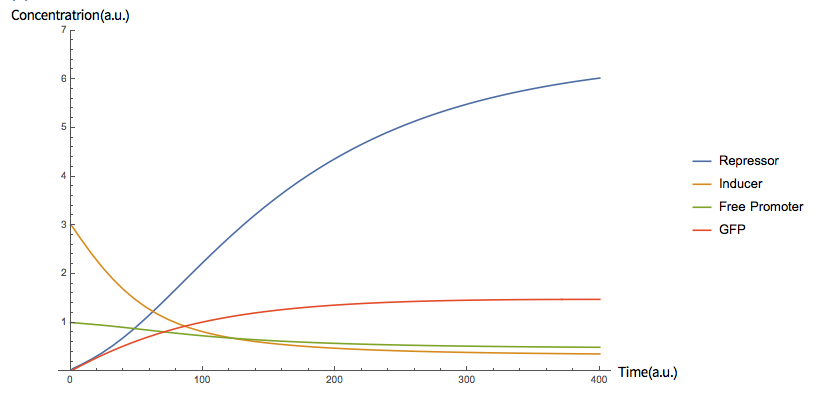
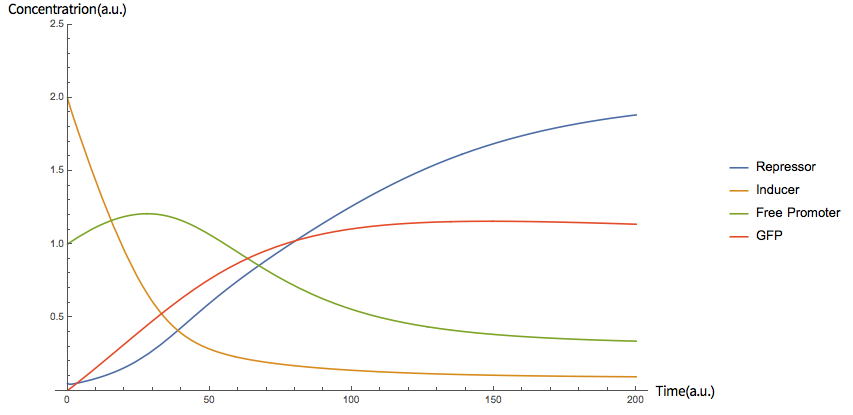
Estoy a punto de bajar tus push

diff --git a/model.html b/model.html
@@ -252,32 +252,24 @@
     <div id="project-content" class="main-content container">
       <div class="row" style="margin-top: 48px;">
         <!-------------------------------------------------------------->
-        <div class="container" id="parrafo-alan">
-          <div class="row">
-            <div class="col-lg-6">
-              <div id="antibiotic-button" class="index-button">
-                <span>
-                  Antibiotic Resistance in Cystic Fibrosis
-                </span>
-              </div>
-              <div class="div-info" id="display:none">
-                <p>
-                  HOLA HOLA HOLA HOLA
-                </p>
-              </div>
-            </div>
-            <div class="col-lg-6">
-              <div id="cascade-button" class="index-button">
-                <span>
-                  Cascade Amplifier Signal for Drug Discovery
-                </span>
-              </div>
-              <div id="div-info">
-                <p>
-                  HOLA HOLA HOLA
-                </p>
-              </div>
-            </div>
+        <div class="container d-flex justify-content-center">
+          <div id="antibiotic-div" class="col-lg-3 index-button">
+            <span id="front-card1"> </span>
+            <p id="back-card1" style="display: none;">
+              Antibiotic Resistance in Cystic Fibrosis αδ
+            </p>
+          </div>
+          <div id="cascade-div" class="col-lg-3 index-button">
+            <span id="front-card2"> </span>
+            <p id="back-card2" style="display: none;">
+              Cascade Amplifier Signal for Discovery
+            </p>
+          </div>
+          <div id="mucolitic-div" class="col-lg-3 index-button">
+            <span id="front-card3"> </span>
+            <p id="back-card3" style="display: none;">
+              Mucolytic Production
+            </p>
           </div>
         </div>
         <script>
@@ -304,23 +296,79 @@
 
           <article class="container">
             <!-----    SUBTÍTULO DE LA SECCIÓN <h3>    ----->
-            <h3 class="row col-md-12 subsection-title">Modelo 1</h3>
+            <h3 class="row col-md-12 subsection-title">
+              Cascade Amplifier Signal for Discovery
+            </h3>
 
             <!-----    Cada <div> es una fila/párrafo    ----->
 
             <div class="row mt-4">
-              <p class="col-md-9 description-text">
-                Lorem ipsum dolor sit amet, consectetur adipiscing elit, sed do
-                eiusmod tempor ncididunt ut labore et dolore magna aliqua. Id
-                neque aliquam vestibulum morbi blandit cursus risus at ultrices.
-                Parturient montes nascetur ridiculus mus mauris vitae.
+              <p class="col-md-12 description-text">
+                Modelling Biological systems has become an area of interest for
+                multidisciplinary areas of science, medicine and engineering.
+                Moreover, designing synthetic biological circuits using genetic
+                elements has become a research field for developing novel
+                biochemical sensors, diagnostics and inducible production of
+                molecules of interest. \\ Our project consist of a series of
+                engineered multi-layered transcriptional amplifiers that
+                sequentially increases the output expression level of a GFP
+                reporter protein on the presence of an inducer molecule. \\ On
+                the following sections, we will develop the mathematical model
+                of the signal amplification as follows: first we will derive the
+                mathematical equations for an already characterizad heavy metal
+                biosensor consisting of a consititutive promoter expessing a
+                represor protein inhibiting the later expression of a reporter
+                gene. Then we will consider the effect of adding a bilayer
+                orthogonal cascade and the signal amplification. After that we
+                will extrapolate this same model to our antibiotic biosensor.
               </p>
-              <img
-                src="https://2019.igem.org/wiki/images/b/b3/Hp_cycle.svg"
-                class="col-md-3 description-image"
-              />
+              <img src="img/GFP.png" class="col-md-9 description-image" />
             </div>
 
+            <h4 class="row col-md-12">
+              Heavy Metal biosensor without cascade amplification
+            </h4>
+            <img src="img/grafica.png" class="col-md-11 description-image" />
+            <p class="col-sm-12 col-md-10 description-text1">
+              Figure 1: Differential equations of whole system without cascade
+              amplification signal . The constants where chosen arbitrary taking
+              the following values: alpha0 = 0.05`, beta0 = 0, beta1 = 0.015`,
+              deltaf = 0.005`, deltaR = 0.025`, delta = 0.00025`, k1 = 0.04`, k2
+              = 0.80`, kmin1 = 0.015`, kmin2 = 0.075`, P(0) = 1, R(0) = 0.05,
+              RP(0) = 1 GFP(0) = 0.`, I(0) = 2, IR(0) = 0`}
+            </p>
+
+            <p></p>
+            <p class="col-md-12 description-text">
+              The fisrt system to be modelled consist of an heavy metal
+              biosensor. In the abscence of heavy metal the constitutive
+              promoter expresses a repressor protein that inactivates the
+              expression of gfp. Some of the requirements for this system to
+              work correctly is a low efficiency constitutive promoter such that
+              in the presence of heavy metal inducer the gfp signal can be
+              turned on. Another important requirement is that the arsenic
+              repressor interactions be stronger than the promoter-repressor in
+              order to overcome such inhibition and lower the detection limits
+              of the heavy metal.
+            </p>
+            <p class="col-md-12 description-text">
+              The system of differential equations of this system is:
+            </p>
+            <img src="img/table3.png" class="col-md-9 description-image" />
+            <p></p>
+            <p class="col-md-12 description-text">
+              Note that equations 2, 3, and 5 are of the same form and there are
+              methods for obtaining the analytical solutions over some
+              restrictions. In general the chemical advance of the species R(t),
+              P(t) and $C_{1}(t)$ when no inhibtor is present and neglecting the
+              degradation dilution rate for short time scales will be
+              R(t)=$R_{0}-x(t)$, P(t)=$P_{0}-x(t)$ and
+              $C_{1}(t)$=$C_{1}(0)+x(t)$ Note that the total promotor
+              $P_{T}$=$C_{1}(0)+P_{0}$ is constant at all time, and
+              $R_T$=$R(t)+C_1(t)=R_0+C_{1,0}$. Therefore In abscence of
+              inhibitor and taking into accoint the simplifacations mentioned
+              above, the system of differential equations reduces to:
+            </p>
             <div class="row mt-4">
               <div class="col-sm-12 col-md-4 img-wrapper">
                 <img

diff --git a/css/placeholder.css b/css/placeholder.css
@@ -157,14 +157,18 @@ article {
   margin-bottom: 12px;
 }
 
+.description-text1 {
+  font-size: 11px;
+}
+
 .index-button {
   height: 180px;
   text-align: center;
   align-items: center;
   display: flex;
   background-image: url("../img/portrait/model.jpg");
-  background-size:100%; 
-   /*background-color: var(--iGEM-dark-blue); */
+  background-size: 100%;
+  /*background-color: var(--iGEM-dark-blue); */
   margin-top: 1em;
   margin-bottom: 1em;
   margin-right: 1em;
@@ -180,7 +184,12 @@ article {
 */
 
 #front-card1 {
-color: white;
+  color: white;
+}
+
+.description-image {
+  margin: 0 auto;
+  margin-top: 30px;
 }
 
 #back-card1 {
@@ -194,9 +203,9 @@ color: white;
   line-height: 1em;
 }
 
-#front-card2{
-color: white;
- /*background-image: url("../img/portrait/model.jpg");
+#front-card2 {
+  color: white;
+  /*background-image: url("../img/portrait/model.jpg");
 background-size: 100%; */
 }
 
@@ -209,19 +218,19 @@ background-size: 100%; */
   line-height: 1em;
 }
 
-#front-card3{
+#front-card3 {
   color: white;
-  }
-  
-  #back-card3 {
-    color: white;
-    color: white;
-    font-family: var(--iGEM-font-title);
-    font-size: 28px;
-    margin: 0 auto;
-    height: 1em;
-    line-height: 1em;
-  }
+}
+
+#back-card3 {
+  color: white;
+  color: white;
+  font-family: var(--iGEM-font-title);
+  font-size: 28px;
+  margin: 0 auto;
+  height: 1em;
+  line-height: 1em;
+}
 
 .index-button > span {
   margin: 0 auto;
